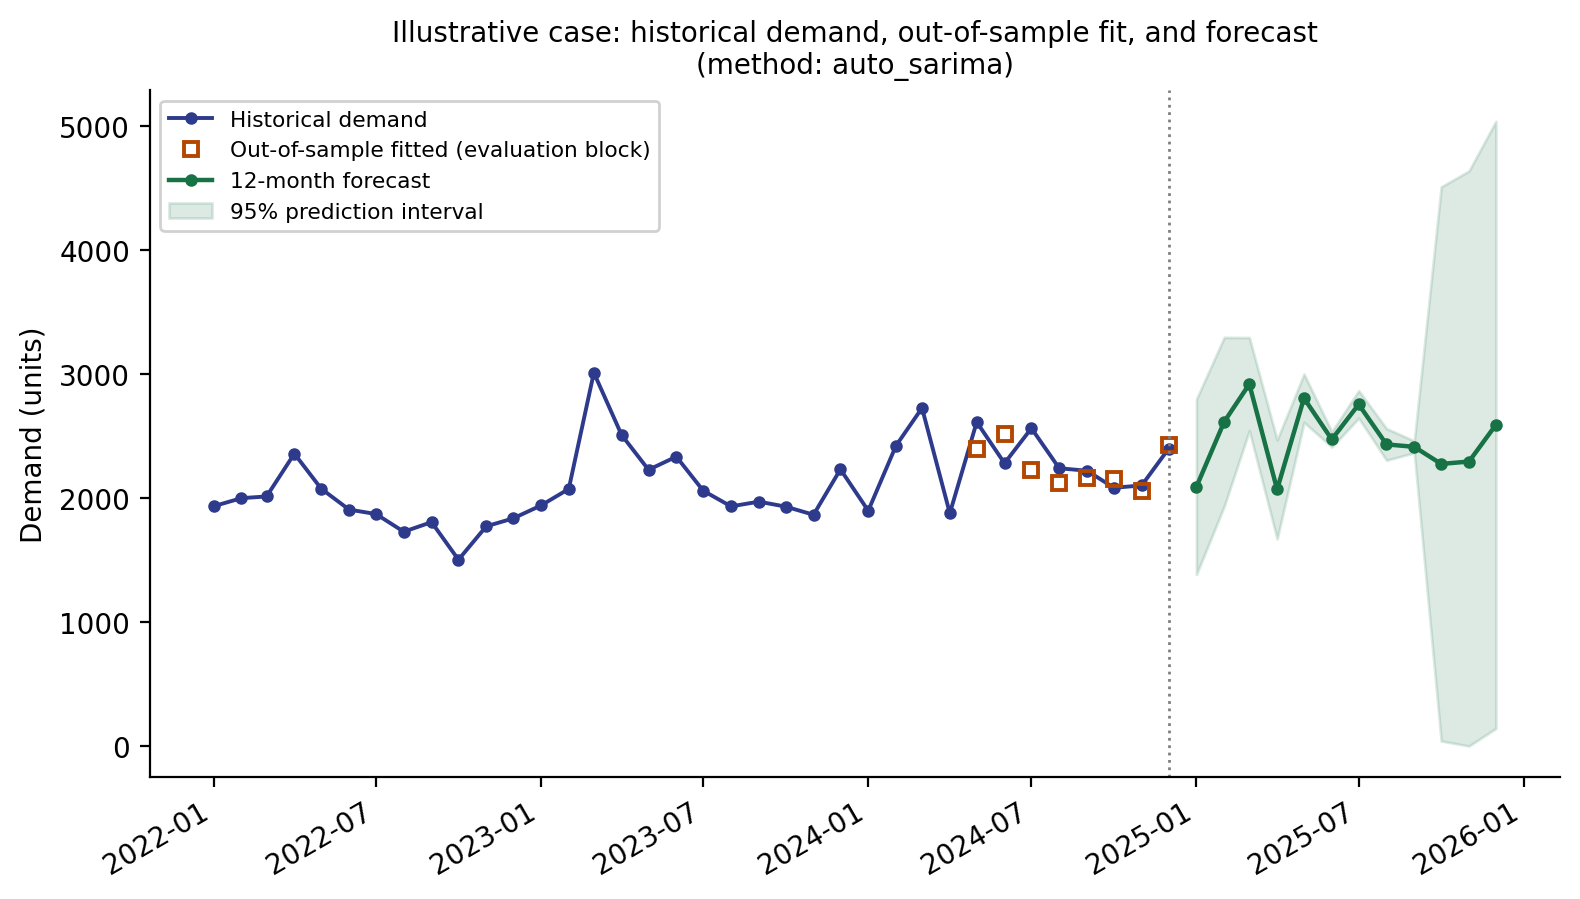
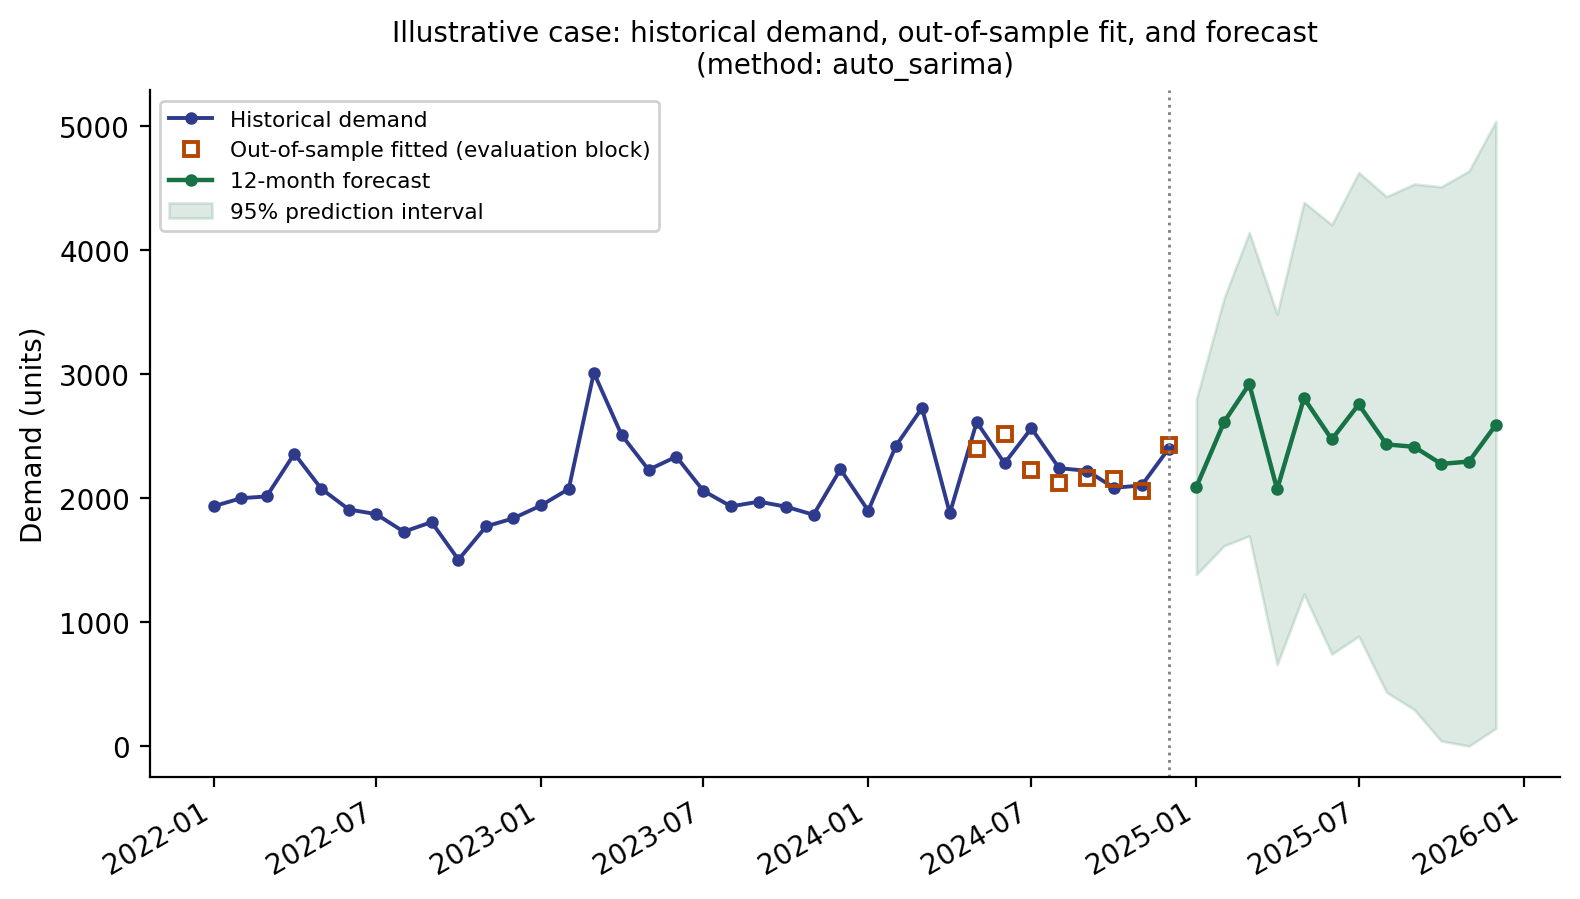
F36/F53: panel_publico no revienta con 0 series ok; Figura 1 sin cajas duplicadas
panel_publico.py: guarda contra ok.groupby('regimen') sobre un DataFrame
vacio -antes lanzaba KeyError sin reportar el motivo cuando --max-len es
demasiado corto para que CUALQUIER serie complete el protocolo de tres
bloques (ej. max-len=24 deja 18 obs para un pipeline que necesita 22:
min_train 10 + tuning 4 + evaluacion 8 + bloque externo 6). Ahora reporta
"0 series, nada que agregar" y sale limpio -exactamente la evidencia que
sostiene la limitacion de dominio anadida al manuscrito (F49).

make_figures.py: Figura 1 (flowchart_tool.png) tenia dos cajas numeradas "4."
y no incluia el bloque externo del protocolo de tres bloques. Renumerada a
9 etapas (data -> clasificacion -> pool -> tuning -> evaluacion -> OUTER ->
ranking -> pronostico -> inventario), con el bloque externo explicito.

Changed region(s): [[0.7443, 0.1869, 0.9304, 0.8098]]

diff --git a/codigo/experimentos/make_figures.py b/codigo/experimentos/make_figures.py
@@ -35,28 +35,29 @@ plt.rcParams.update({
 
 
 def fig1_flowchart():
-    """Fig. 1: flujo metodologico corregido (reemplaza el placeholder reusado 10 veces)."""
-    fig, ax = plt.subplots(figsize=(8.5, 5.2))
-    ax.set_xlim(0, 10); ax.set_ylim(0, 6.4); ax.axis("off")
+    """Fig. 1: flujo metodologico de 9 etapas, con el bloque externo (F53)."""
+    fig, ax = plt.subplots(figsize=(8.5, 7.0))
+    ax.set_xlim(0, 10); ax.set_ylim(0, 8.6); ax.axis("off")
 
     stages = [
-        (0.4, 5.2, "1. Data upload &\nvalidation", "#2E3A8C"),
-        (0.4, 3.8, "2. Sequential structural\nclassification\n(seasonality → trend →\nstationarity)", "#2E3A8C"),
-        (0.4, 2.2, "3. Candidate pool\n(structural filter)", "#3D4FA8"),
-        (0.4, 0.7, "4. Walk-forward:\ntuning block", "#5A6BC0"),
+        (0.4, 7.2, "1. Data upload &\nvalidation", "#2E3A8C"),
+        (0.4, 5.8, "2. Sequential structural\nclassification\n(seasonality → trend →\nstationarity)", "#2E3A8C"),
+        (0.4, 4.2, "3. Candidate pool\n(structural filter)", "#3D4FA8"),
+        (0.4, 2.7, "4. Walk-forward:\nTUNING block", "#5A6BC0"),
+        (0.4, 1.2, "5. Walk-forward:\nEVALUATION block\n(held out from tuning)", "#B34700"),
     ]
     stage2 = [
-        (5.4, 0.7, "4. Walk-forward:\nEVALUATION block\n(held out from tuning)", "#B34700"),
-        (5.4, 2.2, "5. Ranking by MASE\n(naive/snaive always\nincluded)", "#B34700"),
-        (5.4, 3.8, "6. Forecast + empirical\nprediction interval", "#177245"),
-        (5.4, 5.2, "7. Inventory policy\n(safety stock, ROP)", "#177245"),
+        (5.4, 1.2, "6. OUTER block\n(held out from both\ntuning and evaluation;\nre-scores the winner)", "#7A1F5C"),
+        (5.4, 2.7, "7. Ranking by MASE\n(naive/snaive always\nincluded)", "#B34700"),
+        (5.4, 4.2, "8. Forecast + empirical\nprediction interval", "#177245"),
+        (5.4, 5.8, "9. Inventory policy\n(safety stock, ROP)", "#177245"),
     ]
 
     def box(x, y, text, color):
-        b = FancyBboxPatch((x, y - 0.55), 3.9, 1.1, boxstyle="round,pad=0.08,rounding_size=0.12",
+        b = FancyBboxPatch((x, y - 0.6), 3.9, 1.2, boxstyle="round,pad=0.08,rounding_size=0.12",
                            linewidth=1.4, edgecolor=color, facecolor="white", zorder=2)
         ax.add_patch(b)
-        ax.text(x + 1.95, y, text, ha="center", va="center", fontsize=8.6, color="#1a1a1a", zorder=3)
+        ax.text(x + 1.95, y, text, ha="center", va="center", fontsize=8.4, color="#1a1a1a", zorder=3)
 
     for x, y, t, c in stages + stage2:
         box(x, y, t, c)
@@ -65,20 +66,25 @@ def fig1_flowchart():
         ax.add_patch(FancyArrowPatch(p0, p1, arrowstyle="-|>", mutation_scale=14,
                                      linewidth=1.3, color=color, zorder=1))
 
-    arrow((2.35, 4.65), (2.35, 4.35))
-    arrow((2.35, 3.25), (2.35, 2.75))
-    arrow((2.35, 1.65), (2.35, 1.25))
-    arrow((4.3, 0.7), (5.4, 0.7))
-    arrow((7.35, 1.25), (7.35, 1.65))
-    arrow((7.35, 2.75), (7.35, 3.25))
-    arrow((7.35, 4.35), (7.35, 4.65))
+    arrow((2.35, 6.6), (2.35, 6.4))
+    arrow((2.35, 5.2), (2.35, 4.8))
+    arrow((2.35, 3.6), (2.35, 3.3))
+    arrow((2.35, 2.1), (2.35, 1.8))
+    arrow((4.3, 1.2), (5.4, 1.2))
+    arrow((7.35, 1.8), (7.35, 2.1))
+    arrow((7.35, 3.3), (7.35, 3.6))
+    arrow((7.35, 4.8), (7.35, 5.2))
 
-    ax.annotate("Never re-used to score\nhyperparameters", xy=(5.4, 0.7), xytext=(3.6, -0.35),
-               fontsize=7.3, color="#B34700", ha="center",
-               arrowprops=dict(arrowstyle="->", color="#B34700", lw=0.8))
-    ax.text(5.0, 6.05, "Corrected pipeline: seasonality tested before trend, hyperparameter\n"
-                       "tuning strictly separated from the reported evaluation block.",
-           ha="center", fontsize=8.8, style="italic", color="#333333")
+    ax.annotate("Never re-used to select\nhyperparameters", xy=(0.4, 2.7), xytext=(-1.55, 1.55),
+               fontsize=7.0, color="#5A6BC0", ha="center",
+               arrowprops=dict(arrowstyle="->", color="#5A6BC0", lw=0.8))
+    ax.annotate("Never re-used to select\nthe winning method", xy=(5.4, 1.2), xytext=(3.6, -0.55),
+               fontsize=7.0, color="#7A1F5C", ha="center",
+               arrowprops=dict(arrowstyle="->", color="#7A1F5C", lw=0.8))
+    ax.text(5.0, 8.25, "Structural classification (seasonality tested before trend), a strict\n"
+                       "tuning/evaluation split, and a third outer block that keeps method\n"
+                       "selection itself separate from the reported benchmark comparison.",
+           ha="center", fontsize=8.6, style="italic", color="#333333")
 
     fig.tight_layout()
     fig.savefig(OUT / "flowchart_tool.png", bbox_inches="tight")

diff --git a/codigo/experimentos/panel_publico.py b/codigo/experimentos/panel_publico.py
@@ -221,6 +221,11 @@ def main() -> int:
     print("\n" + "=" * 88)
     print("DISTRIBUCION DE MASE POR REGIMEN ESTRUCTURAL ({} series)".format(len(ok)))
     print("=" * 88)
+    if ok.empty:
+        print("  Ninguna serie produjo un ganador con este --max-len (ver motivos arriba); "
+              "nada que agregar por regimen.")
+        print("=" * 88)
+        return 1
     regimen_rows = []
     for regimen, grupo in ok.groupby("regimen"):
         print("\n  {} (n={})".format(regimen, len(grupo)))
